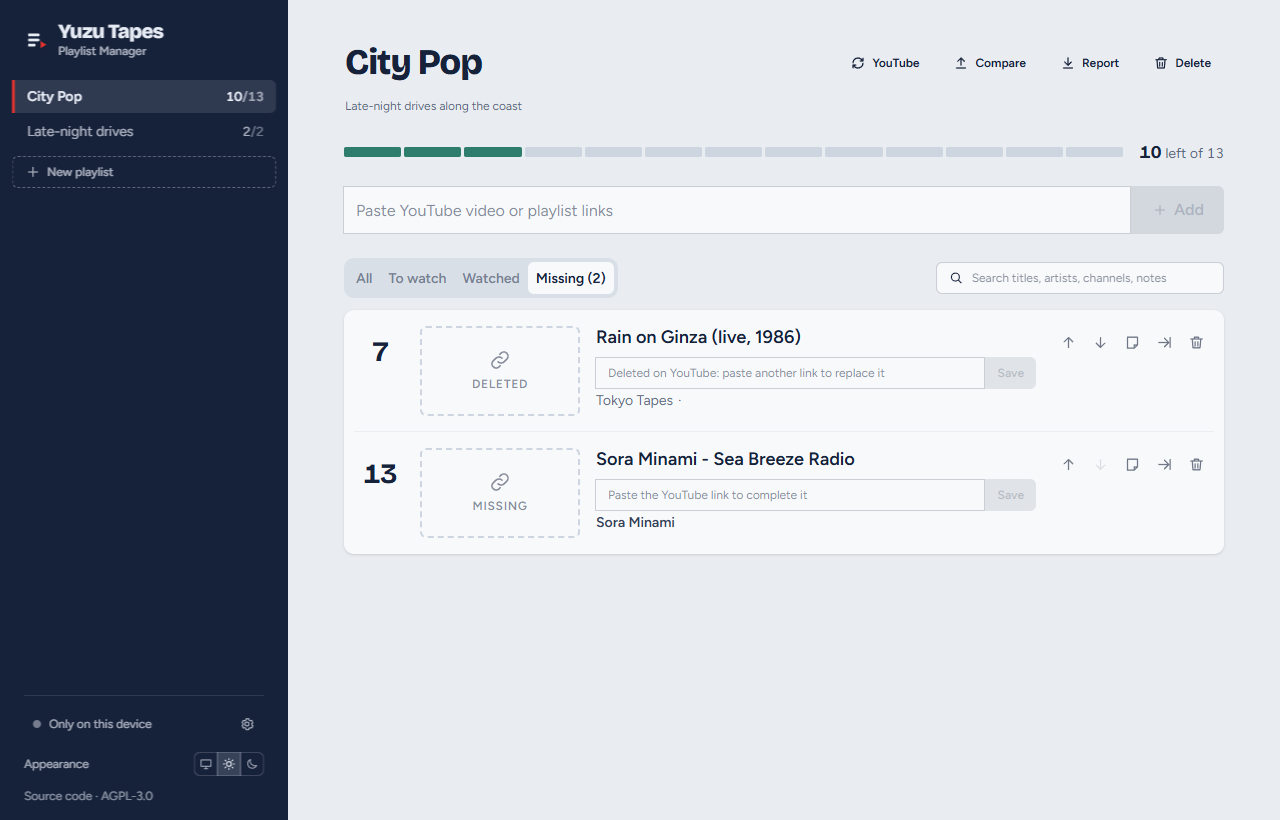
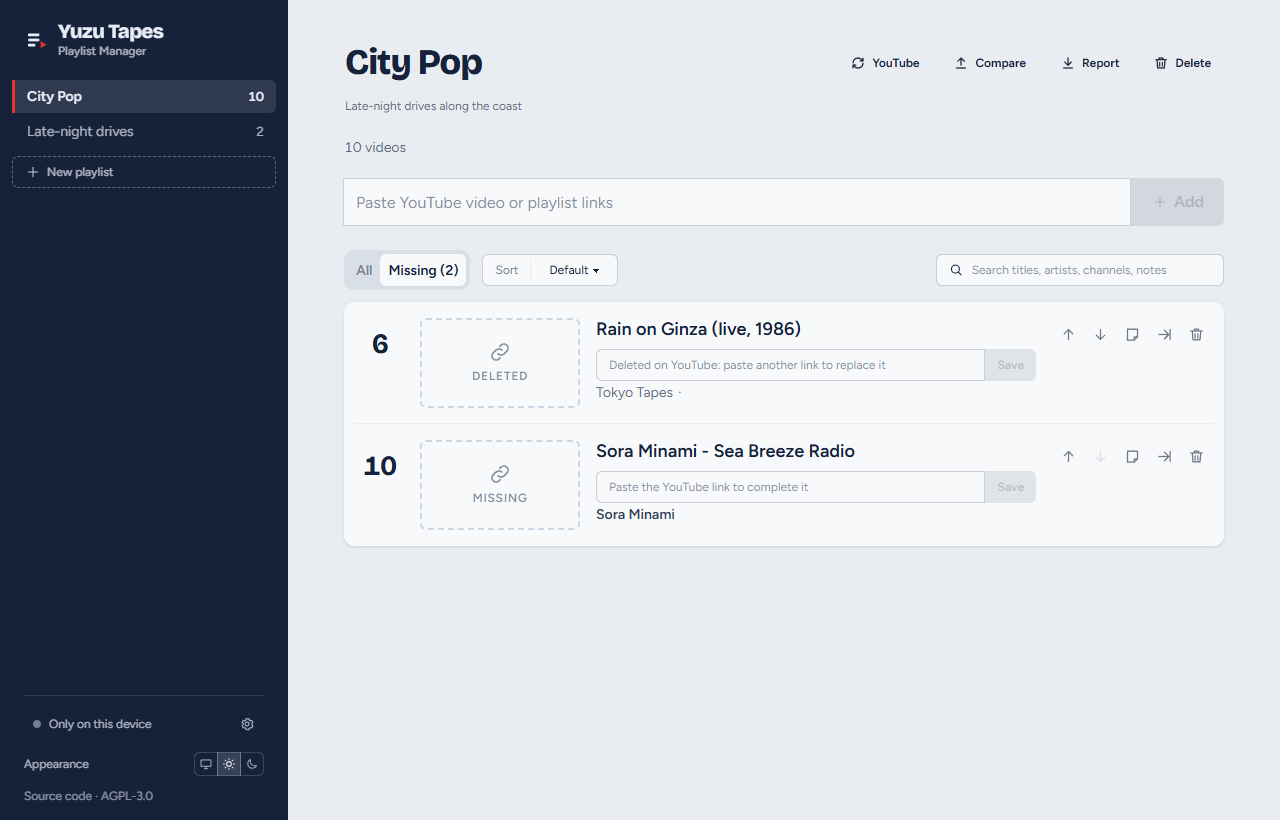
Docs: new screenshots and text for sorting and several artists
Retakes all six screenshots with sample data and placeholder thumbnails,
now without watched marks and with the Sort control and several
artists, and describes both in the README. The row's edit button moves
to the end of the artist line, so while hidden it leaves no gap before
the channel.

diff --git a/web-react/src/domains/videos/components/row/ArtistLine.tsx b/web-react/src/domains/videos/components/row/ArtistLine.tsx
@@ -56,7 +56,7 @@ export const ArtistLine = ({ video, title, onEdit }: { video: Video; title: stri
                     </button>
                 </Fragment>
             ))}
-            {video.artistSource === 'guess' ? (
+            {video.artistSource === 'guess' && (
                 <button
                     type="button"
                     className={styles.guessed}
@@ -66,7 +66,16 @@ export const ArtistLine = ({ video, title, onEdit }: { video: Video; title: stri
                 >
                     <Icon name="info" size={13} />
                 </button>
-            ) : (
+            )}
+            {showChannel && (
+                <>
+                    <span className={styles.separator} aria-hidden="true">
+                        ·
+                    </span>
+                    uploaded by {video.author}
+                </>
+            )}
+            {video.artistSource !== 'guess' && (
                 <button
                     type="button"
                     className={styles.edit}
@@ -76,14 +85,6 @@ export const ArtistLine = ({ video, title, onEdit }: { video: Video; title: stri
                 >
                     <Icon name="edit" size={13} />
                 </button>
-            )}
-            {showChannel && (
-                <>
-                    <span className={styles.separator} aria-hidden="true">
-                        ·
-                    </span>
-                    uploaded by {video.author}
-                </>
             )}
         </p>
     );

diff --git a/README.md b/README.md
@@ -24,7 +24,7 @@ Keep your own playlists of videos (music, talks, recipes, anything you want to k
 
 | Light | Dark |
 | --- | --- |
-| ![A City Pop playlist in the light theme: sidebar with two playlists, progress strip, and videos with thumbnails, each showing its artist and the channel that uploaded it, three marked as watched](docs/screenshots/playlist-light.png) | ![The same playlist in the dark theme](docs/screenshots/playlist-dark.png) |
+| ![A City Pop playlist in the light theme: sidebar with two playlists, the All and Missing tabs, the Sort control and search, and numbered videos with thumbnails, each showing its artists, such as "Ryo Tanabe & Aoi Kanda" or "Aoi Kanda feat. Sora Minami", and the channel that uploaded it](docs/screenshots/playlist-light.png) | ![The same playlist in the dark theme](docs/screenshots/playlist-dark.png) |
 
 **Compare with an old report.** Load a report you saved earlier to see which videos the playlist no longer has, then add them back in their old place:
 
@@ -38,7 +38,9 @@ Keep your own playlists of videos (music, talks, recipes, anything you want to k
 
 ![Missing filter showing a video deleted on YouTube and a placeholder from a report, each with a box to paste a YouTube link](docs/screenshots/missing-items.png)
 
-**Artists.** Under each title the app shows the artist, then the channel that uploaded the video: "Anri · uploaded by …". The artist is guessed from YouTube Music's "Artist - Topic" channels and from titles like "Artist - Song" or "Artist「Song」"; a guess has an ⓘ badge, because it may be wrong. Click the artist to correct it: the field suggests artists already in your library and keeps one spelling for each. Search matches artists too.
+**Sorting.** **Sort** shows a playlist by **Artist** (A to Z, then by title), **Title**, or with **Missing** videos first, and works together with the filter and search. It only changes the view: the playlist keeps its order, rows keep their numbers, and moving a video waits until you're back on **Default**. Switching playlists goes back to **Default**.
+
+**Artists.** Under each title the app shows the artists, then the channel that uploaded the video: "Ryo Tanabe & Aoi Kanda · uploaded by …". A video can have several main artists and featured ones ("Aoi Kanda feat. Sora Minami"). They're guessed from YouTube Music's "Artist - Topic" channels and from titles like "Artist - Song", "A & B - Song", "A × B" or "Song (feat. C)"; a guess has an ⓘ badge, because it may be wrong. Click the ⓘ or the pencil to edit them: add a main or featured artist, reorder or remove them, with suggestions from your library that keep one spelling for each. Once your library knows a name with "&" or "," in it, like a band, guesses keep it whole. Click an artist to search for them, which finds the videos where they're main or featured.
 
 **Videos deleted on YouTube** keep their place: they show a "Deleted" thumbnail, count under the **Missing** filter, and wait for another link, like Missing items.
 
@@ -376,12 +378,12 @@ Format: number: title | artist
 3: Untitled live recording |
 ```
 
-The artist follows the last ` | ` and is empty when unknown. Reports saved before artists existed have no `Format:` line and only `number: title`.
+The artist follows the last ` | ` and is empty when unknown. Several artists are joined, as in `Ryo Tanabe & Aoi Kanda feat. Sora Minami`. Reports saved before artists existed have no `Format:` line and only `number: title`.
 
 **Compare** loads a report (a file, or pasted text) and finds which of its videos the playlist no longer has, so you can add them back in their old place. It reads every format and says which one it found:
 
-* **JSON:** matches by YouTube ID; restored videos come back with their link, channel and notes. Older reports also have a `watched` field, which is ignored. A broken file, or one from a newer version of the app, is refused and changes nothing.
-* **Text with artists:** matches by title, using the artist to tell apart two videos with the same title; restored items keep the report's artist and wait for their link as Missing items.
+* **JSON:** matches by YouTube ID; restored videos come back with their link, channel, notes and each of their artists. Older reports also have a `watched` field, which is ignored. A broken file, or one from a newer version of the app, is refused and changes nothing.
+* **Text with artists:** matches by title, using the artist to tell apart two videos with the same title; restored items keep the report's artists, split again on `&`, `feat.` and the like (names your library already knows stay whole), and wait for their link as Missing items.
 * **Older text reports:** match by title (ignoring case, spacing, punctuation and full-width characters), and also when the report's title is the video's "artist - title"; restored items get a guessed artist.
 
 **Backups** are made by themselves when a playlist with videos is added, and whenever you download a report. In a sync chain they're kept on the server, where any device can find them; without a chain, or while offline, they stay on the device. **Compare** lists a playlist's backups, to compare with one or download it. Each playlist keeps its first backup and its last 10, and the backups of a deleted playlist are removed after 30 days. Sync doesn't change them, so a bad edit can't reach a backup.
